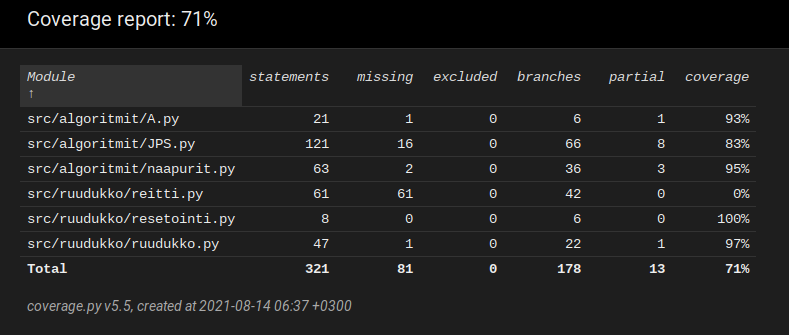
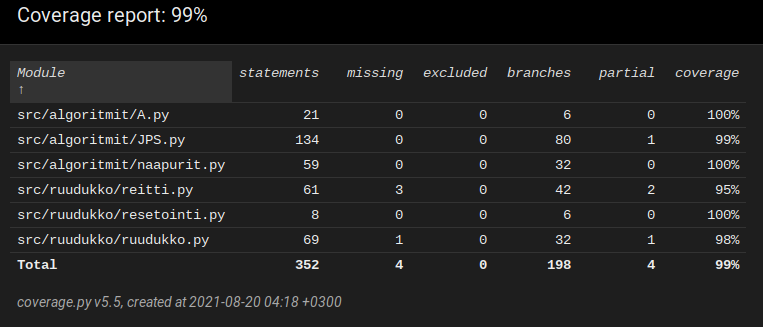
Suorituskyky testien luominen ja koodin parantelu.

diff --git a/src/suorituskyky.py b/src/suorituskyky.py
@@ -1,0 +1,49 @@
+from time import perf_counter
+from ruudukko.ruudukko import generoi_ruudukko
+from ruudukko.resetointi import resetoi_ruudukko
+from algoritmit.A import lyhyin_reitti_a
+from algoritmit.JPS import lyhyin_reitti_jps
+
+def vertaa_nopeutta_estettomissa_ruudukoissa():
+    """Ottaa talteen kauanko algoritmeilla kestää ratkaista
+    esteettömät ruudukot ja tulostaa tulokset."""
+    a_aika = 0
+    jps_aika = 0
+    for _ in range(20):
+        ruudukko = generoi_ruudukko(200,0)
+        aika = perf_counter()
+        lyhyin_reitti_a(ruudukko)
+        loppu = perf_counter()
+        a_aika += loppu - aika
+        resetoi_ruudukko(ruudukko[0],ruudukko[1],ruudukko[2],100)
+        aika = perf_counter()
+        lyhyin_reitti_jps(ruudukko)
+        loppu = perf_counter()
+        jps_aika += loppu - aika
+    print(f"A* algoritmilla kesti {a_aika} sekuntia ratkaista 20 200x200 ruudukkoa, joissa ei ollut esteitä.")
+    print(f"JPS algoritmilla kesti {jps_aika} sekuntia.")
+    print(f"JPS oli {int(a_aika/jps_aika)} kertaa nopeampi kuin A*.\n")
+
+def vertaa_nopeutta_esteellisissa_ruudukoissa():
+    """Ottaa talteen kauanko algoritmeilla kestää ratkaista
+    esteettömät ruudukot ja tulostaa tulokset."""
+    a_aika = 0
+    jps_aika = 0
+    for _ in range(20):
+        ruudukko = generoi_ruudukko(100,1)
+        aika = perf_counter()
+        lyhyin_reitti_a(ruudukko)
+        loppu = perf_counter()
+        a_aika += loppu - aika
+        resetoi_ruudukko(ruudukko[0],ruudukko[1],ruudukko[2],100)
+        aika = perf_counter()
+        lyhyin_reitti_jps(ruudukko)
+        loppu = perf_counter()
+        jps_aika += loppu - aika
+    print(f"A* algoritmilla kesti {a_aika} sekuntia ratkaista 20 100x100 ruudukkoa, joissa oli esteitä.")
+    print(f"JPS algoritmilla kesti {jps_aika} sekuntia.")
+    print(f"A* oli {int(jps_aika/a_aika)} kertaa nopeampi kuin JPS.\n")
+
+
+vertaa_nopeutta_estettomissa_ruudukoissa()
+vertaa_nopeutta_esteellisissa_ruudukoissa()

diff --git a/src/tests/resetointi_test.py b/src/tests/resetointi_test.py
@@ -7,16 +7,21 @@ class TestResetointi(unittest.TestCase):
 
     def test_sanakirjat_ovat_oikein(self):
         oikein = True
-        ruudukko = generoi_ruudukko(20,0)
-        lyhyin_reitti_a(ruudukko)[0]
-        resetoi_ruudukko(ruudukko[0],ruudukko[1],ruudukko[2],ruudukko[5])
-        for i in range(1,ruudukko[5]+1):
-            for j in range(1,ruudukko[5]+1):
-                if ruudukko[1][(i,j)] is not False:
+        pituus = 20
+        ruudukko = generoi_ruudukko(pituus,0)
+        lyhyin_reitti_a(ruudukko)
+        vierailtu = ruudukko[1]
+        matka = ruudukko[2]
+        ruudukko = ruudukko[0]
+        resetoi_ruudukko(ruudukko,vierailtu,matka,pituus)
+        for i in range(1,pituus+1):
+            for j in range(1,pituus+1):
+                if vierailtu[(i,j)] is not False:
                     oikein = False
-                if ruudukko[0][(i,j)] == 0:
-                    if ruudukko[2][(i,j)] != 0:
+                if ruudukko[(i,j)] == 0 or ruudukko[(i,j)] == 10:
+                    if matka[(i,j)] != 0:
                         oikein = False
                 else:
-                    if ruudukko[2][(i,j)] != 10**9:
+                    if matka[(i,j)] != 10**9:
                         oikein = False
+        self.assertEqual(oikein,True)

diff --git a/src/ruudukko/reitti.py b/src/ruudukko/reitti.py
@@ -11,7 +11,7 @@ def maarita_reitti(reitti,ruutu,aloitus_ruutu):
             ruutu = reitti[ruutu]
 
             try:
-                if tutkittu[ruutu] == True:
+                if tutkittu[ruutu] is True:
                     break
             except KeyError:
                 pass
@@ -37,7 +37,7 @@ def maarita_reitti(reitti,ruutu,aloitus_ruutu):
                     while alkuperainen[0] > ruutu[0]+kerroin and alkuperainen[1] + kerroin < ruutu[1]:
                         reitti_lista.append((alkuperainen[0]-kerroin,alkuperainen[1]+kerroin))
                         kerroin += 1
-                
+
                 if alkuperainen[0] < ruutu[0] and alkuperainen[1] > ruutu[1]:
                     kerroin = 1
                     while alkuperainen[0] + kerroin < ruutu[0] and alkuperainen[1] > ruutu[1] + kerroin:

diff --git a/src/tests/reitti_test.py b/src/tests/reitti_test.py
@@ -1,17 +1,17 @@
-from ruudukko.reitti import maarita_reitti
 import unittest
 from random import randint
 from algoritmit.JPS import lyhyin_reitti_jps
 from ruudukko.ruudukko import generoi_ruudukko
+from ruudukko.reitti import maarita_reitti
 
 class TestReitinEtsinta(unittest.TestCase):
 
     def test_reitti_on_kokonainen(self):
         oikein = True
-        for i in range(20):
-            ruudukko = generoi_ruudukko(randint(10,100),randint(0,4))
+        for _ in range(20):
+            ruudukko = generoi_ruudukko(randint(10,100),randint(0,5))
             ratkaisu = lyhyin_reitti_jps(ruudukko)
-            if ratkaisu == False:
+            if ratkaisu is False:
                 continue
             reitti = ratkaisu[1]
             reitti = maarita_reitti(reitti,ruudukko[4],ruudukko[3])

diff --git a/src/tests/jps_algoritmi_test.py b/src/tests/jps_algoritmi_test.py
@@ -15,7 +15,7 @@ class TestAlgoritmiJPS(unittest.TestCase):
             if ratkaisu is False:
                 oikein = False
         self.assertEqual(oikein,True)
-    
+
     def test_algoritmi_selvittaa_ruudukko_1(self):
         ruudukko = ruudukko1()
         ratkaisu = lyhyin_reitti_jps(ruudukko)
@@ -28,7 +28,7 @@ class TestAlgoritmiJPS(unittest.TestCase):
 
     def test_algoritmien_tulokset_samat(self):
         oikein = True
-        for i in range(100):
+        for _ in range(100):
             pituus = randint(10,100)
             ruudukko = generoi_ruudukko(pituus,randint(0,5))
             loppuruutu = ruudukko[4]

diff --git a/src/index.py b/src/index.py
@@ -7,8 +7,8 @@ from kayttoliittyma.ruudukko import piirra_ruudukko,piirra_ratkaisu
 from algoritmit.A import lyhyin_reitti_a
 from algoritmit.JPS import lyhyin_reitti_jps
 
-pituus = 200
-esteet = 0
+pituus = 20
+esteet = 1
 ruudukko = generoi_ruudukko(pituus,esteet)
 #ruudukko = ruudukko1()
 #ruudukko = ruudukko2()
@@ -58,5 +58,3 @@ while True:
             if event.key == pygame.K_RETURN:
                 ruudukko = generoi_ruudukko(pituus,esteet)
                 piirra_ruudukko(ruudukko[0],ruudukko[5])
-
-#https://app.mindmup.com/map/_free/2021/08/763e8980fca711eb8c427fec12ce2f16

diff --git a/tasks.py b/tasks.py
@@ -5,6 +5,10 @@ def start(ctx):
     ctx.run("python3 src/index.py")
 
 @task
+def suorituskyky(ctx):
+    ctx.run("python3 src/suorituskyky.py")
+
+@task
 def test(ctx):
     ctx.run("pytest src")
 
